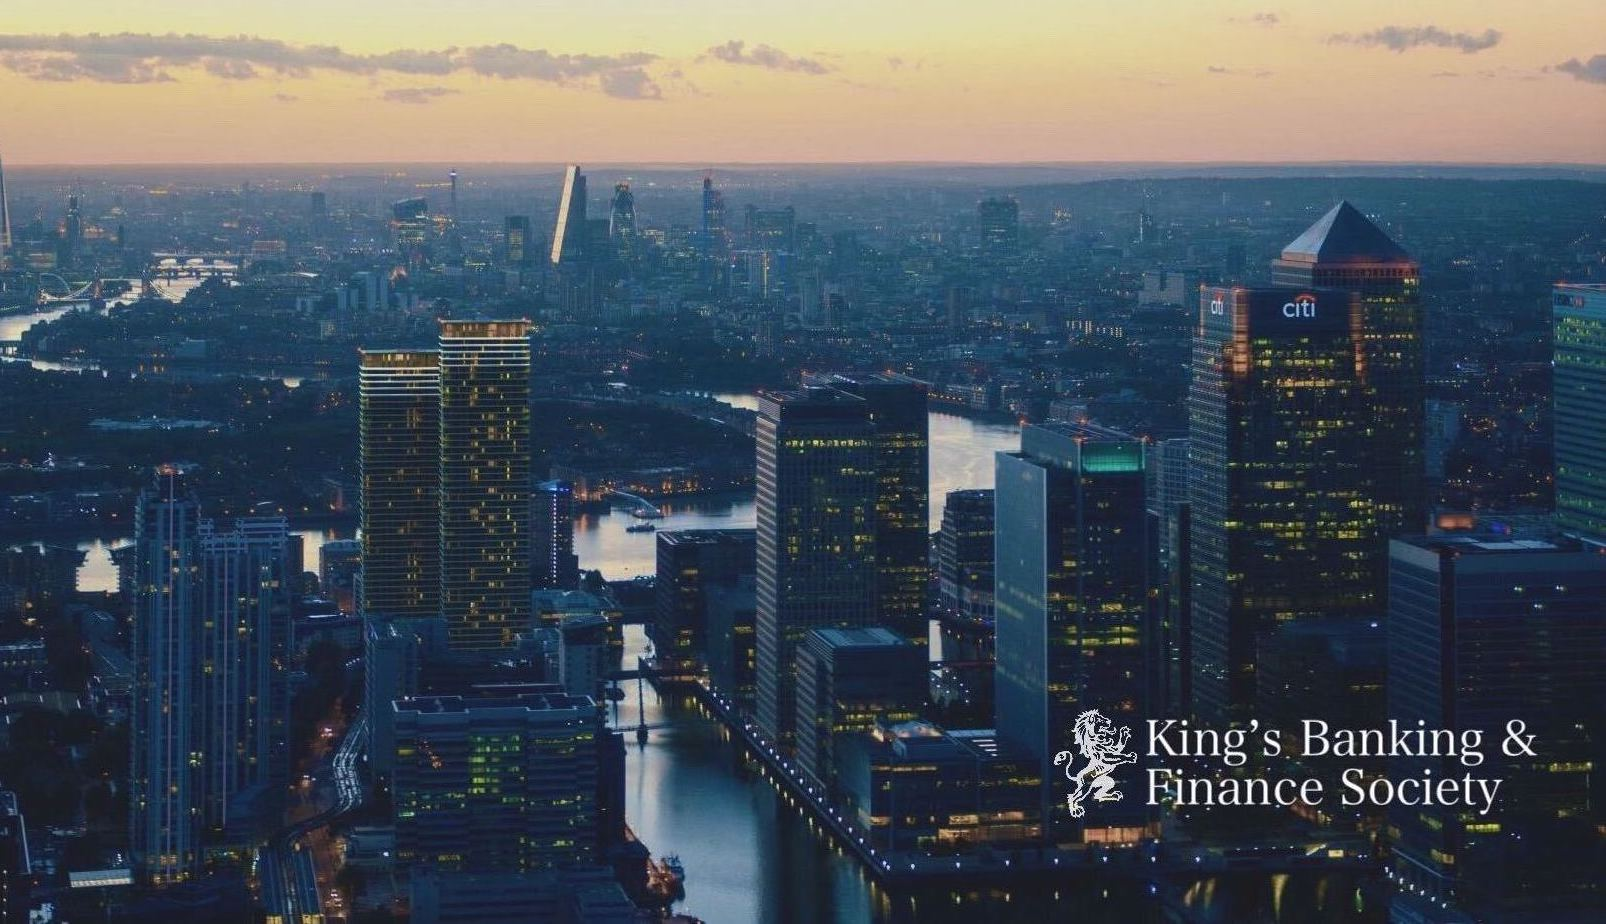
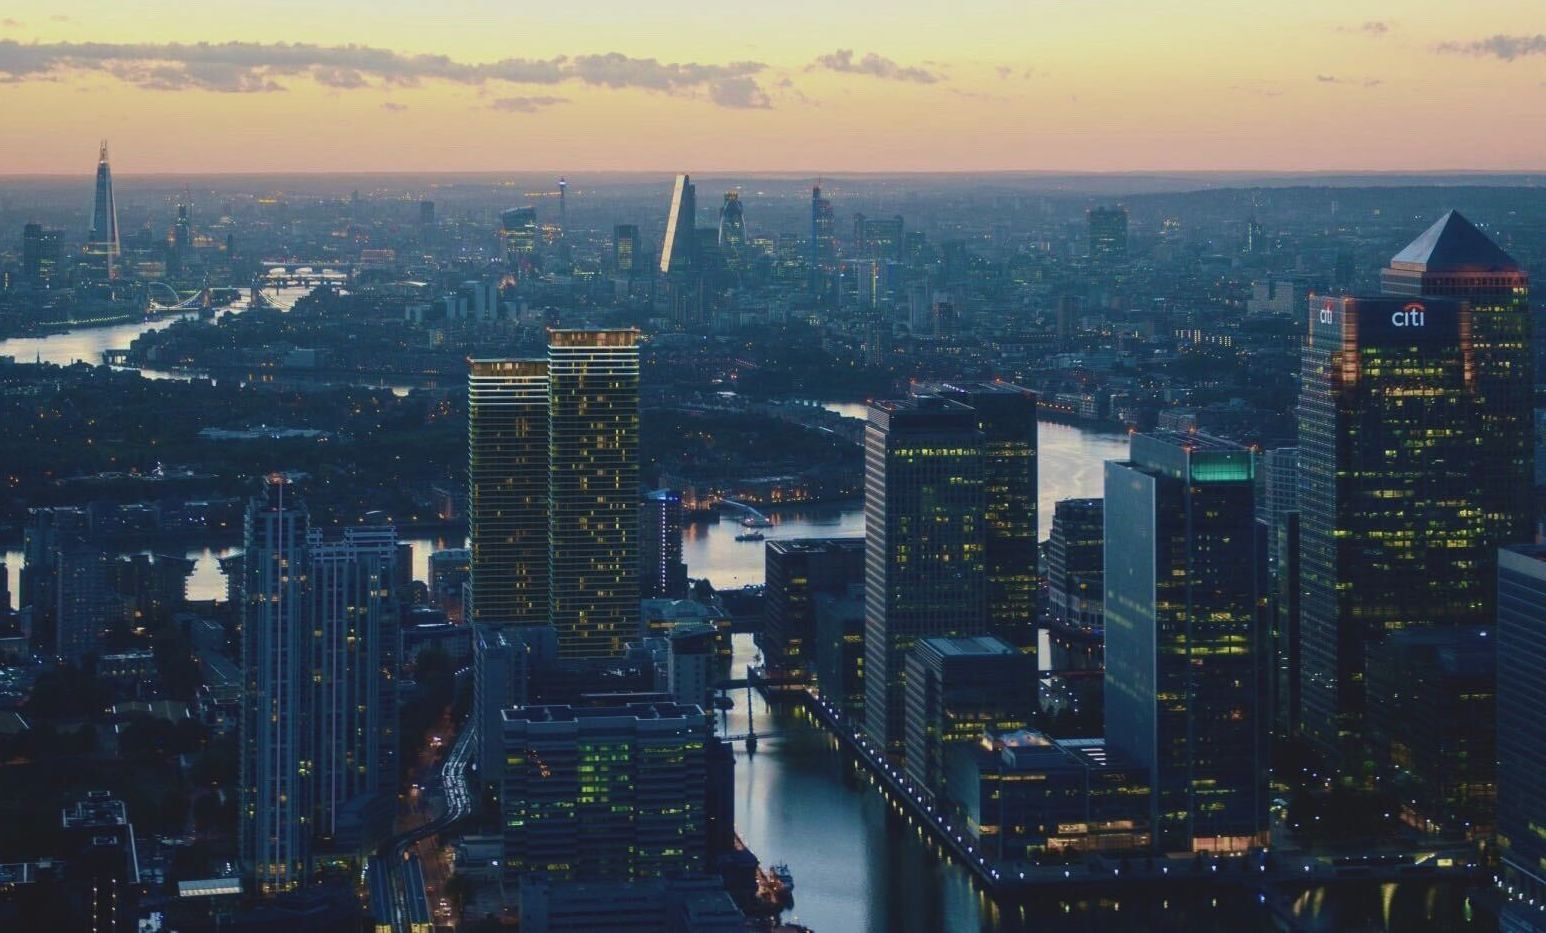
Change pic

diff --git a/success.html b/success.html
@@ -64,7 +64,6 @@
                             <li><a href="#join"><span class="menu-item-span">Join Us</span></a></li>
                             <li><a href="#team"><span class="menu-item-span">Our Team</span></a></li>
                             <li><a href="#contact"><span class="menu-item-span">Contact Us</span></a></li>
-                            <li><a href="/finimize"><span class="menu-item-span">Finimize</span></a></li>
                         </ul>
                     </div>
                 </div>
@@ -88,7 +87,6 @@
                             <h1 class="m-b-20"><strong>Thank you for joining us!</strong></h1>
                             <p class="lead"><a class="btn btn-lg btn-brand" href="/#upcoming-events">Signup for upcoming events</a></p>
                             <ul class="social-icons">
-                                <li><a href="https://twitter.com/KingsBFS"><i class="fab fa-twitter"></i></a></li>
                                 <li><a href="https://www.instagram.com/Kings.BFS"><i class="fab fa-instagram"></i></a></li>
                                 <li><a href="https://www.facebook.com/KingsBFS/"><i class="fab fa-facebook-f"></i></a></li>
                                 <li><a href="https://www.linkedin.com/company/KBFS"><i class="fab fa-linkedin"></i></a></li>
@@ -108,7 +106,6 @@
                                 <div class="copyright">
                                     <p>© King's Banking &amp; Finance Society 2020. All Rights Reserved.</p>
                                     <ul class="social-icons">
-                                        <li><a href="https://twitter.com/KingsBFS"><i class="fab fa-twitter"></i></a></li>
                                         <li><a href="https://www.instagram.com/Kings.BFS"><i class="fab fa-instagram"></i></a></li>
                                         <li><a href="https://www.facebook.com/KingsBFS/"><i class="fab fa-facebook-f"></i></a></li>
                                         <li><a href="https://www.linkedin.com/company/KBFS"><i class="fab fa-linkedin"></i></a></li>

diff --git a/terms.html b/terms.html
@@ -64,7 +64,6 @@
                             <li><a href="#join"><span class="menu-item-span">Join Us</span></a></li>
                             <li><a href="#team"><span class="menu-item-span">Our Team</span></a></li>
                             <li><a href="#contact"><span class="menu-item-span">Contact Us</span></a></li>
-                            <li><a href="/finimize"><span class="menu-item-span">Finimize</span></a></li>
                         </ul>
                     </div>
                 </div>
@@ -106,7 +105,6 @@
                                 <div class="copyright">
                                     <p>© King's Banking &amp; Finance Society 2020. All Rights Reserved.</p>
                                     <ul class="social-icons">
-                                        <li><a href="https://twitter.com/KingsBFS"><i class="fab fa-twitter"></i></a></li>
                                         <li><a href="https://www.instagram.com/Kings.BFS"><i class="fab fa-instagram"></i></a></li>
                                         <li><a href="https://www.facebook.com/KingsBFS/"><i class="fab fa-facebook-f"></i></a></li>
                                         <li><a href="https://www.linkedin.com/company/KBFS"><i class="fab fa-linkedin"></i></a></li>

diff --git a/index.html b/index.html
@@ -80,7 +80,7 @@
         <!-- Wrapper-->
         <div class="wrapper">
             <!-- Hero-->
-            <section class="module-cover parallax text-center fullscreen" id="home" data-background="assets/images/kbfs_banner.jpg" data-overlay="0.65">
+            <section class="module-cover parallax text-center fullscreen" id="home" data-background="assets/images/kbfs_bannerNew.jpg" data-overlay="0.65">
                 <div class="container">
                     <div class="row">
                         <div class="col-md-12">
